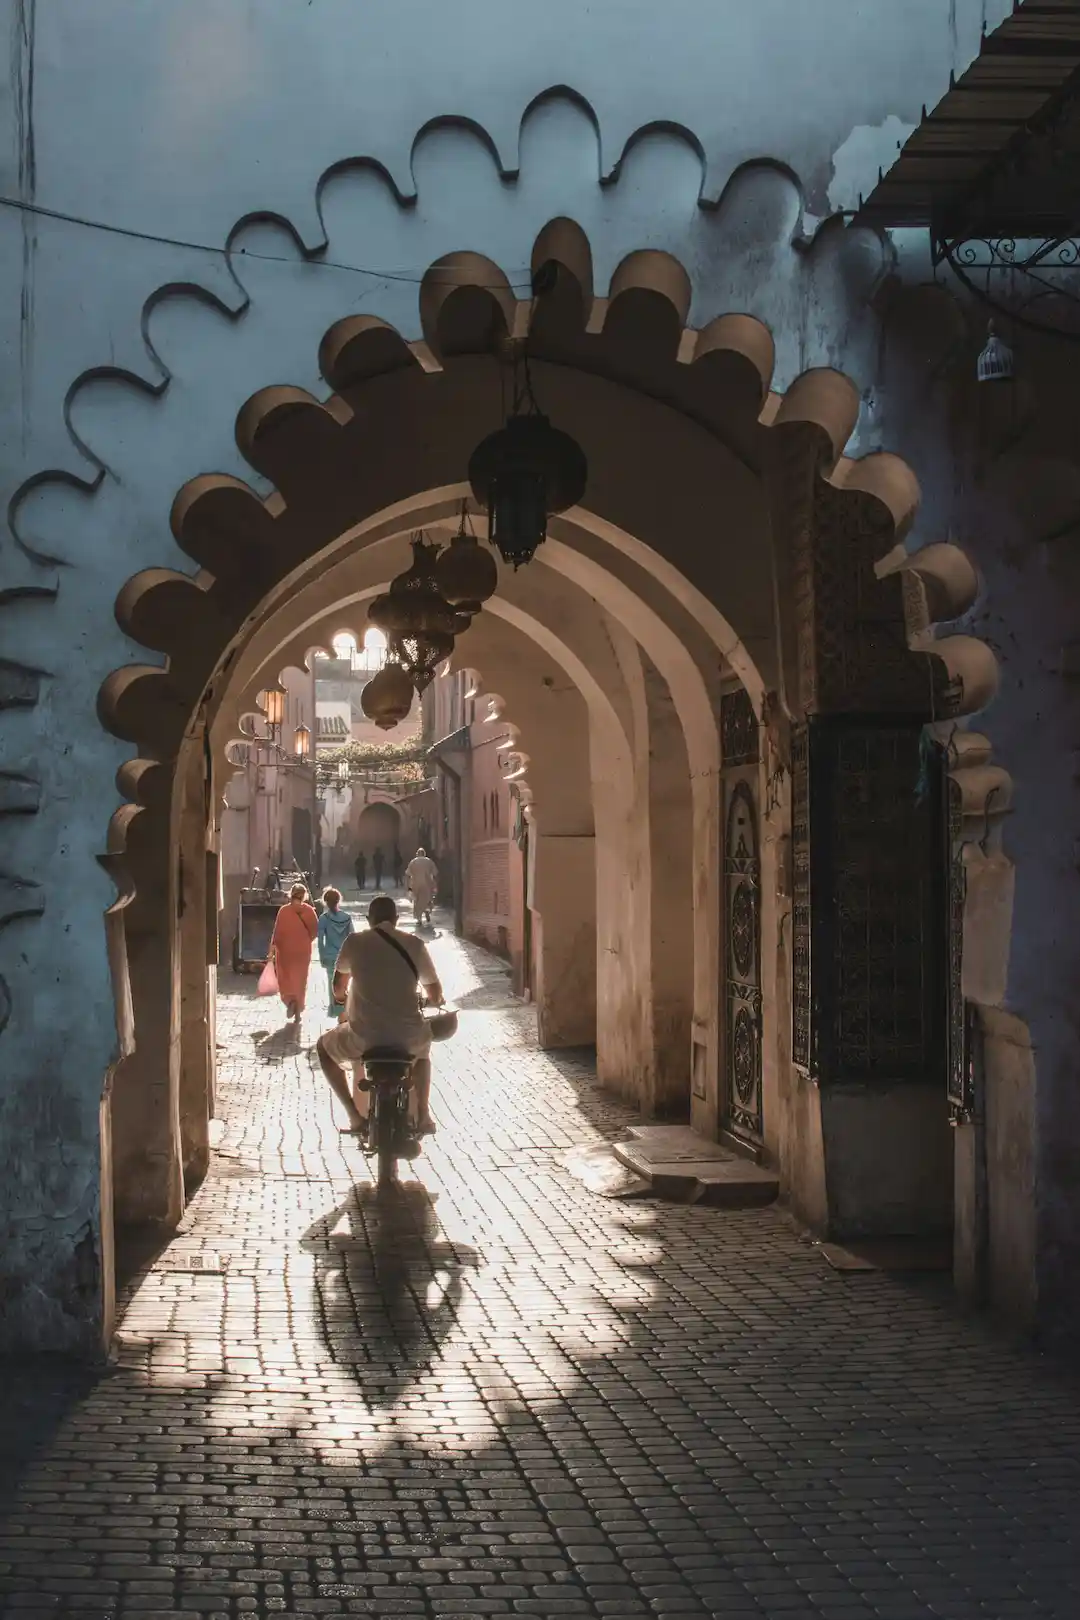
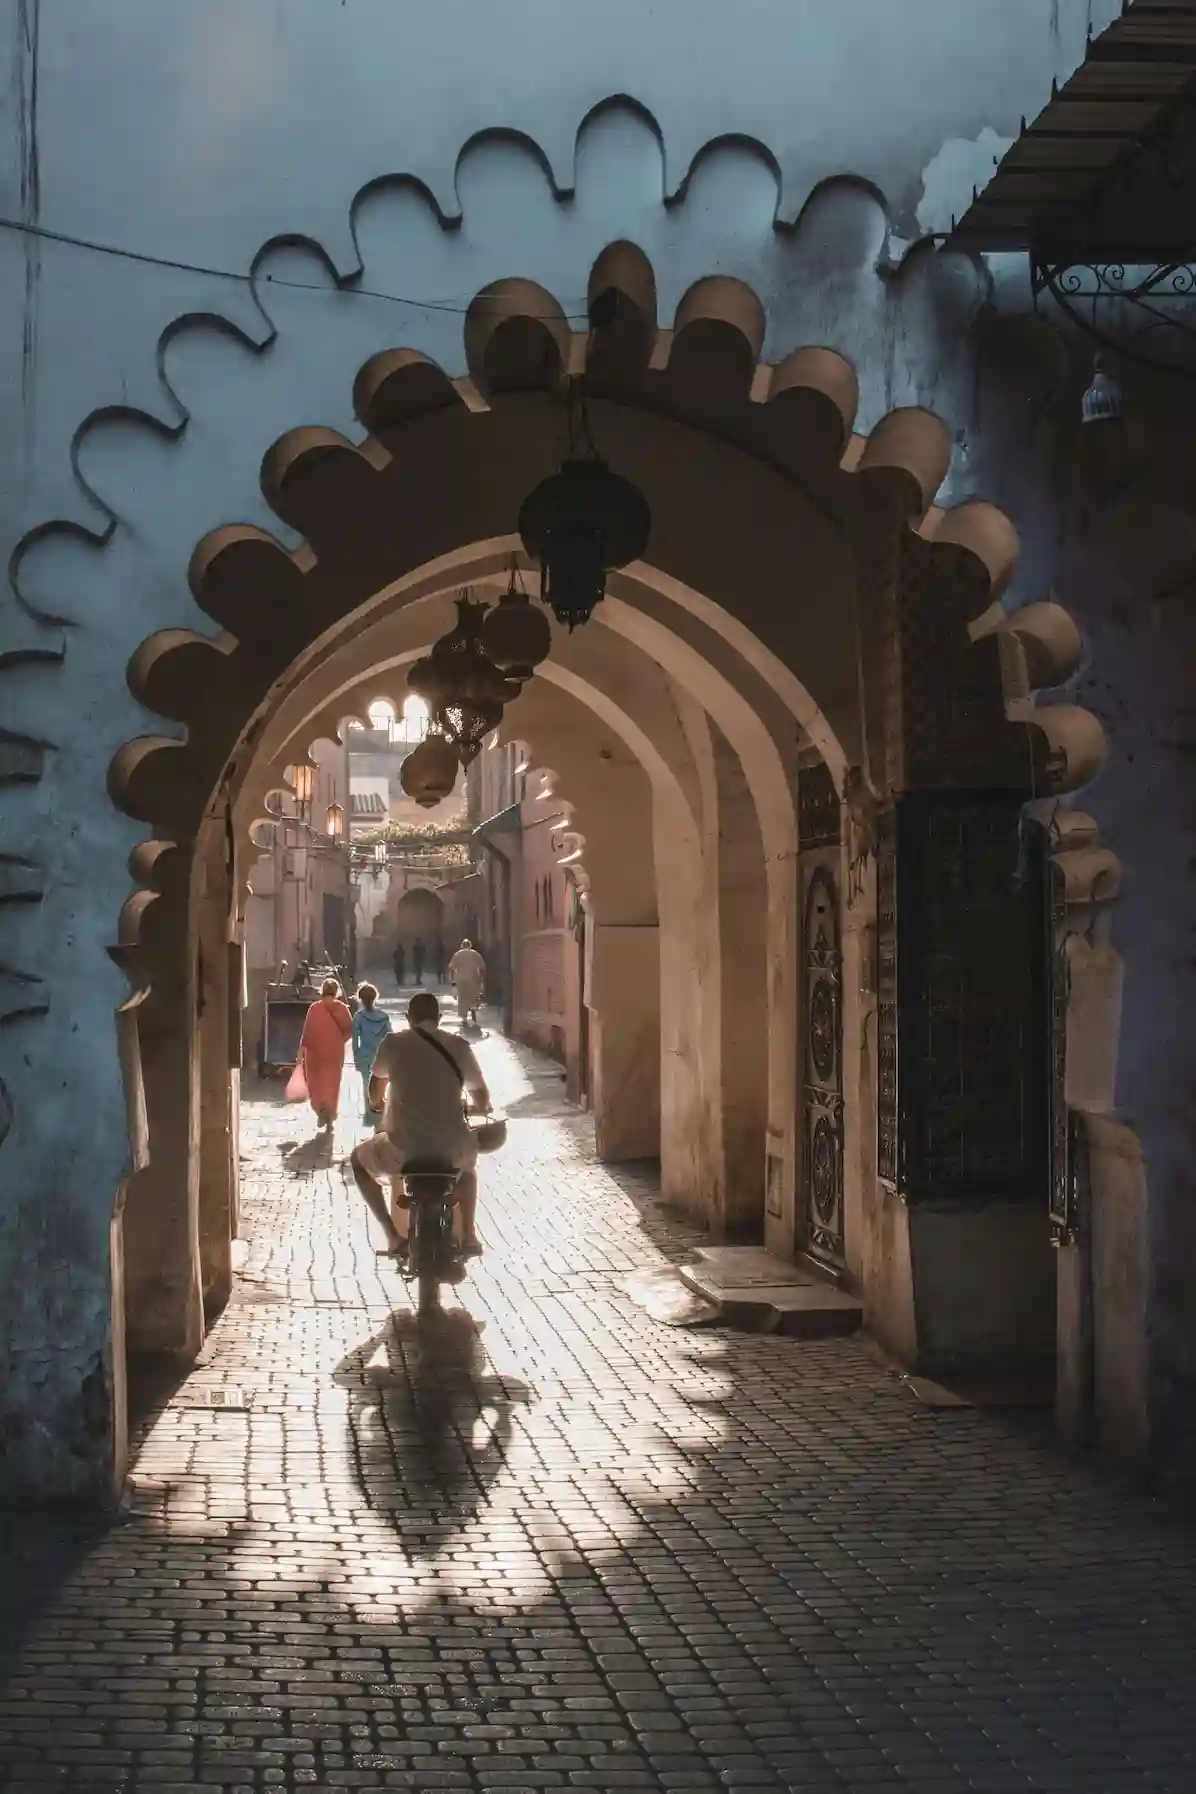
perf(images): optimize mobile hero and implement responsive tailored transport card images

diff --git a/src/components/TailoredTransportGallery.tsx b/src/components/TailoredTransportGallery.tsx
@@ -4,6 +4,16 @@ import Link from 'next/link';
 import { Language } from '@/lib/translations';
 import styles from './TailoredTransportGallery.module.css';
 
+interface GalleryItem {
+  id: string;
+  title: string;
+  desc: string;
+  image: string;
+  desktopImage?: string;
+  mobileImage?: string;
+  href: string;
+}
+
 interface TailoredTransportGalleryProps {
   lang?: Language;
 }
@@ -14,7 +24,7 @@ export default function TailoredTransportGallery({ lang = 'en' }: TailoredTransp
 
   const getPath = (path: string) => (lang === 'en' && path === '/' ? '/' : `/${lang}${path === '/' ? '' : path}`);
 
-  const items = [
+  const items: GalleryItem[] = [
     {
       id: 'airport',
       title: isEn ? "Airport Transfers" : (isEs ? "Traslados de Aeropuerto" : "Transferts Aéroport"),
@@ -24,6 +34,8 @@ export default function TailoredTransportGallery({ lang = 'en' }: TailoredTransp
         ? "Recepción personalizada en terminal con seguimiento de vuelos en directo, ayuda con equipaje y salida directa."
         : "Accueil personnalisé en sortie de terminal avec suivi de vol en direct, aide aux bagages et départ immédiat.",
       image: "/img2/aeroport-marrakech.webp",
+      desktopImage: "/img2/aeroport-marrakech(desktop).webp",
+      mobileImage: "/img2/aeroport-marrakech(mobile).webp",
       href: getPath('/transfers')
     },
     {
@@ -35,6 +47,8 @@ export default function TailoredTransportGallery({ lang = 'en' }: TailoredTransp
         ? "Circuito privado de 8 días en vehículo con chófer por ciudades imperiales, el Atlas, las dunas del Sahara y Chefchaouen."
         : "Circuit privé de 8 jours avec véhicule et chauffeur dédié reliant villes impériales, Haut Atlas, dunes du Sahara et Chefchaouen.",
       image: "/img/Morocco-trip-tour-hero01.webp",
+      desktopImage: "/img/Morocco-trip-tour-hero01 (desktop).webp",
+      mobileImage: "/img/Morocco-trip-tour-hero01 (mobile).webp",
       href: getPath('/car-with-driver-morocco-8-days')
     },
     {
@@ -46,6 +60,8 @@ export default function TailoredTransportGallery({ lang = 'en' }: TailoredTransp
         ? "Total libertad de horarios con un vehículo y conductor privado a su disposición para reuniones, cenas o visitas."
         : "Flexibilité totale avec un véhicule et chauffeur privé à votre disposition pour réunions, dîners ou déplacements urbains.",
       image: "/a-mdiinatours/chauffeur-costume-mercedes-noires.webp",
+      desktopImage: "/img/chauffeur-costume-mercedes-noires(desktop).webp",
+      mobileImage: "/img/chauffeur-costume-mercedes-noires(mobile).webp",
       href: getPath('/private-driver-morocco')
     },
     {
@@ -108,13 +124,26 @@ export default function TailoredTransportGallery({ lang = 'en' }: TailoredTransp
           {items.map((item) => (
             <Link key={item.id} href={item.href} className={styles.galleryCard}>
               <div className={styles.imageFrame}>
-                <Image
-                  src={item.image}
-                  alt={item.title}
-                  fill
-                  sizes="(max-width: 640px) 100vw, (max-width: 1024px) 50vw, 33vw"
-                  className={styles.cardImage}
-                />
+                {item.mobileImage && item.desktopImage ? (
+                  <picture className={styles.cardPicture}>
+                    <source media="(max-width: 640px)" srcSet={encodeURI(item.mobileImage)} />
+                    <img
+                      src={encodeURI(item.desktopImage)}
+                      alt={item.title}
+                      loading="lazy"
+                      decoding="async"
+                      className={styles.cardImage}
+                    />
+                  </picture>
+                ) : (
+                  <Image
+                    src={item.image}
+                    alt={item.title}
+                    fill
+                    sizes="(max-width: 640px) calc(100vw - 32px), (max-width: 1024px) 50vw, 380px"
+                    className={styles.cardImage}
+                  />
+                )}
                 <div className={styles.imageOverlay} />
               </div>
               <div className={styles.cardContent}>

diff --git a/src/components/TailoredTransportGallery.module.css b/src/components/TailoredTransportGallery.module.css
@@ -90,7 +90,21 @@
   border: 1px solid rgba(255, 255, 255, 0.08);
 }
 
+.cardPicture {
+  position: absolute;
+  top: 0;
+  left: 0;
+  width: 100%;
+  height: 100%;
+  display: block;
+}
+
 .cardImage {
+  position: absolute;
+  top: 0;
+  left: 0;
+  width: 100%;
+  height: 100%;
   object-fit: cover;
   transition: transform 0.7s cubic-bezier(0.16, 1, 0.3, 1), filter 0.5s ease;
   filter: brightness(0.92) contrast(1.04);
